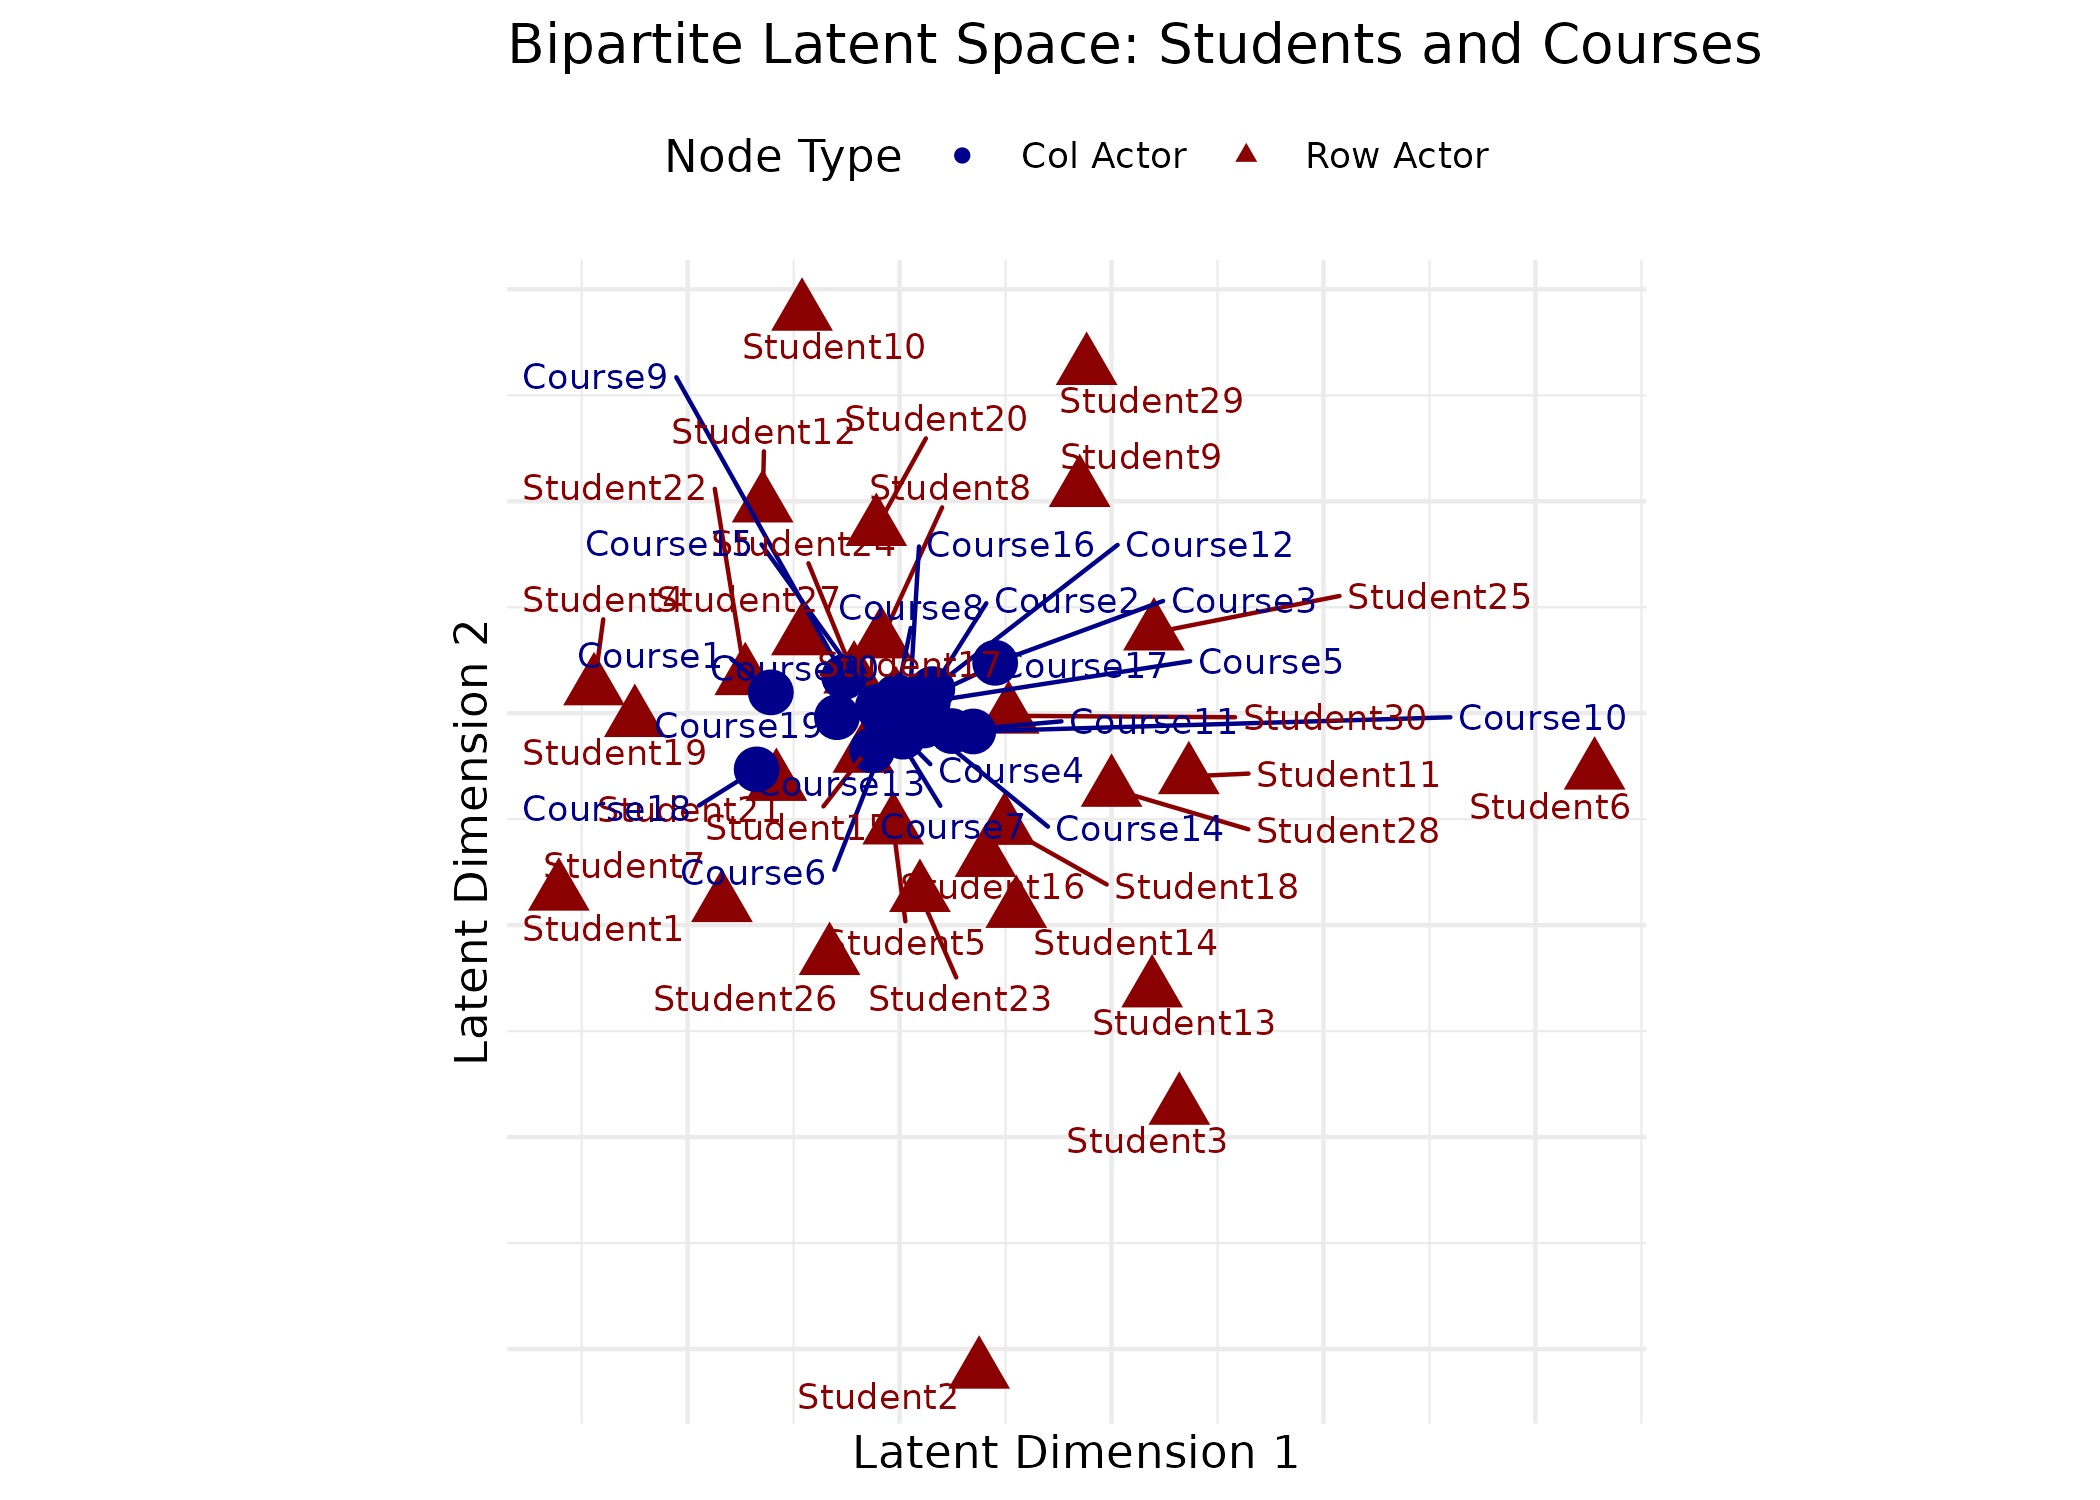
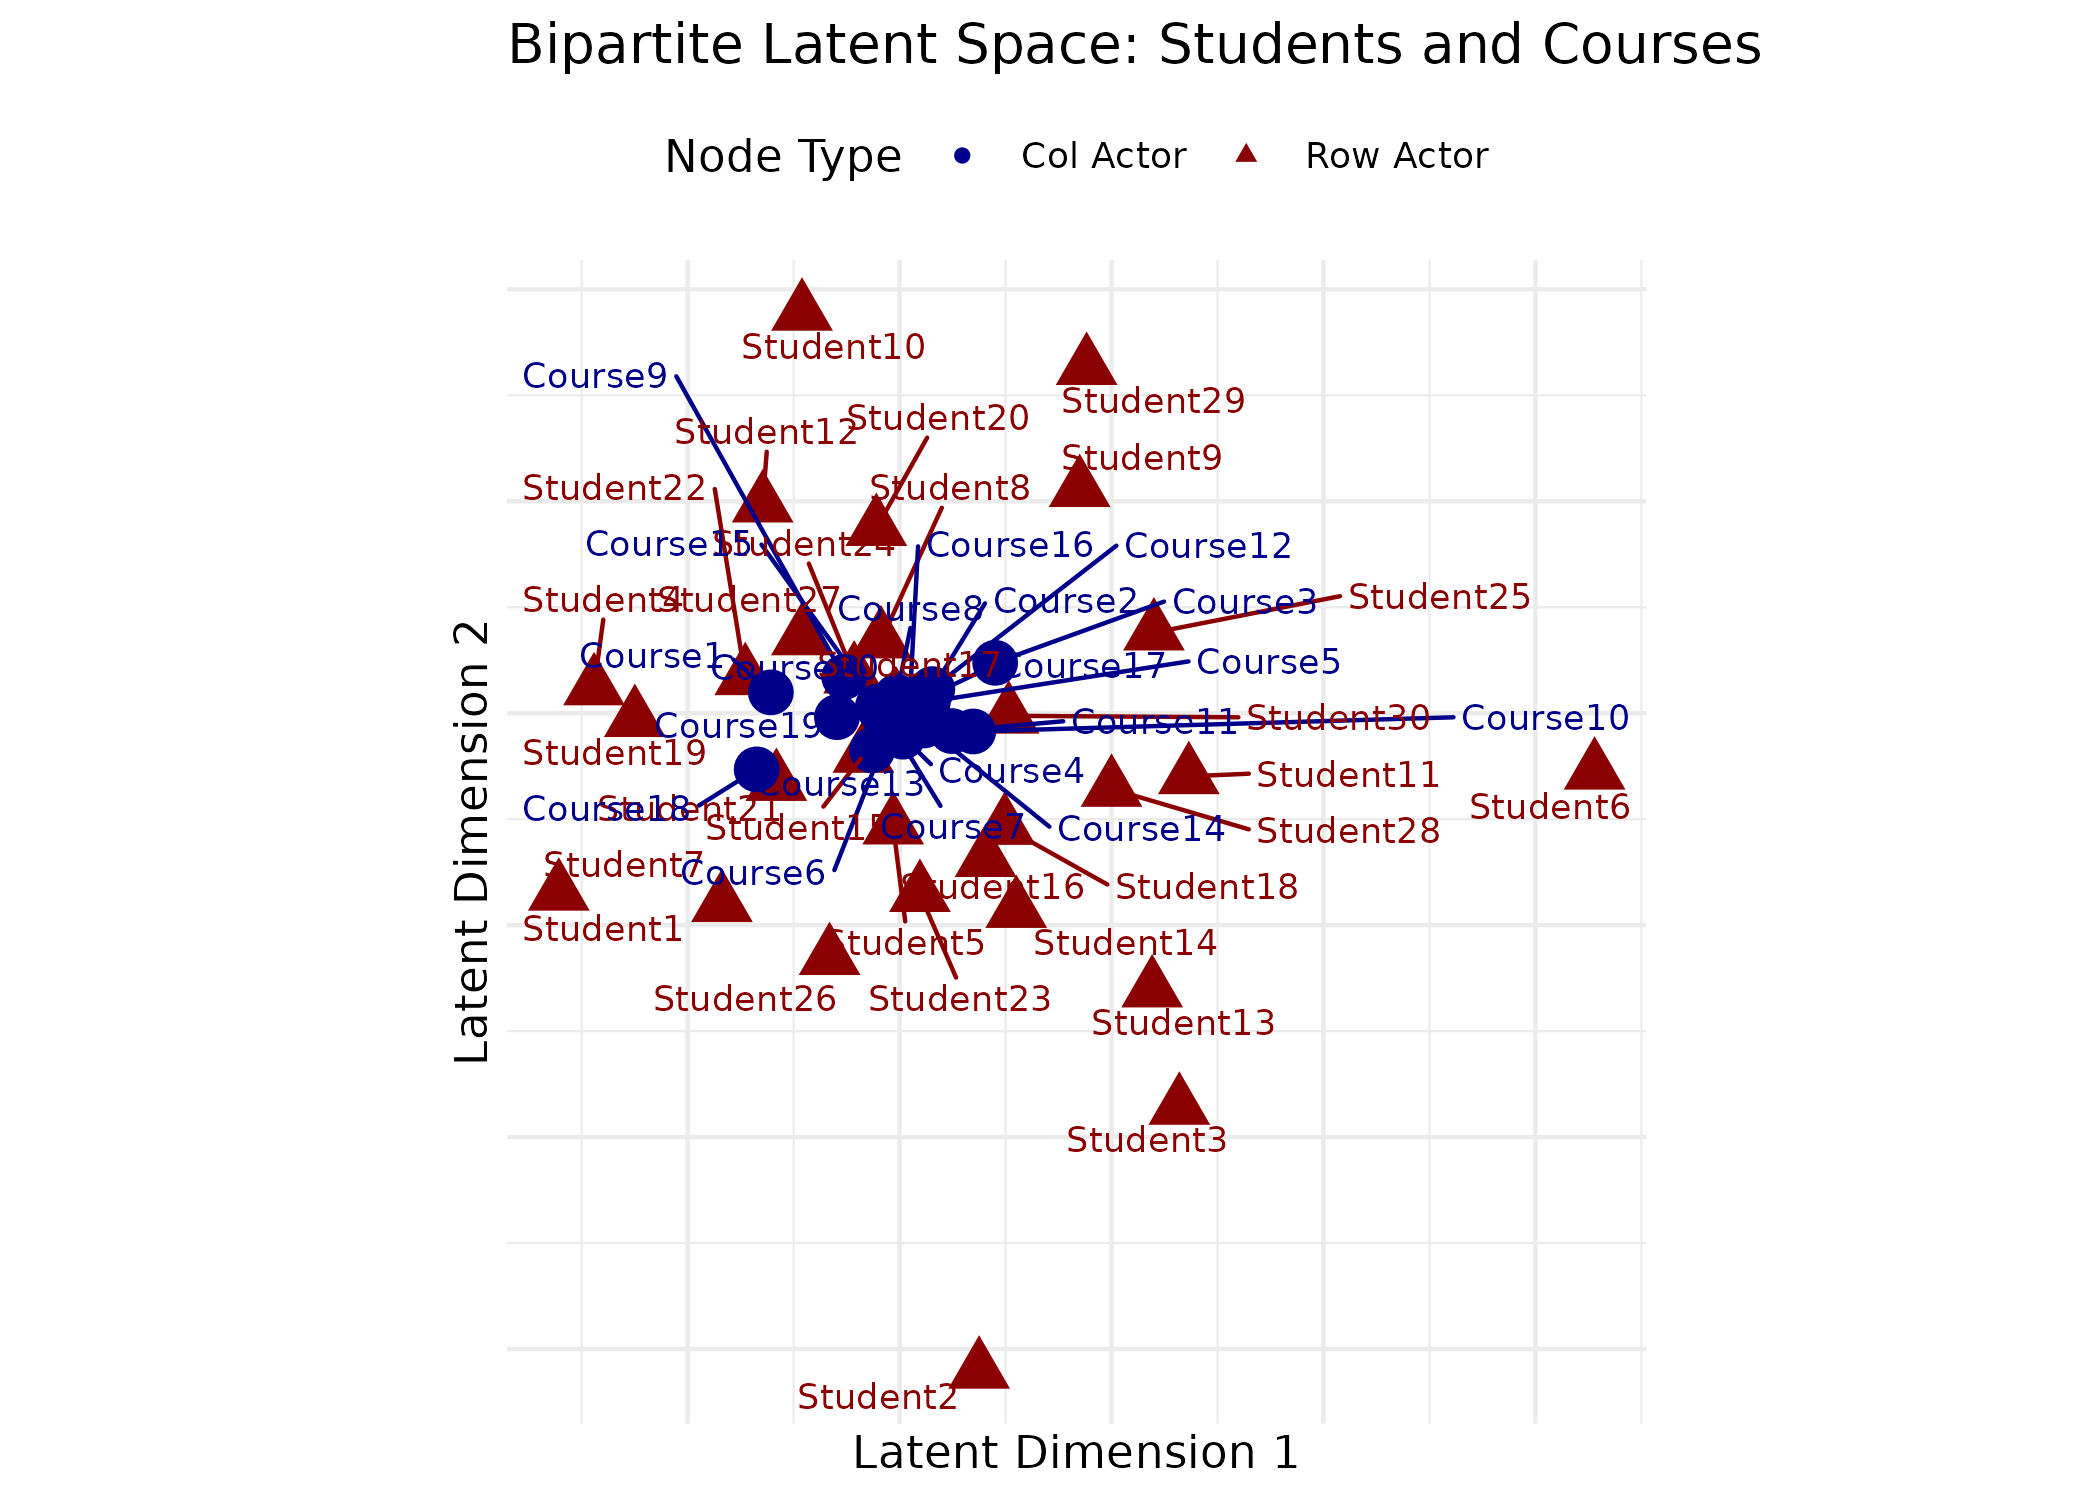
Deploying to gh-pages from @ netify-dev/lame@c4673acba17aab7e982a21378e80ae8f834ad633 🚀

diff --git a/articles/lame-overview.html b/articles/lame-overview.html
@@ -69,7 +69,7 @@
                         <h4 data-toc-skip class="author">Cassy Dorff,
 Shahryar Minhas, and Tosin Salau</h4>
             
-            <h4 data-toc-skip class="date">2026-06-11</h4>
+            <h4 data-toc-skip class="date">2026-06-25</h4>
       
       <small class="dont-index">Source: <a href="https://github.com/netify-dev/lame/blob/main/vignettes/lame-overview.Rmd" class="external-link"><code>vignettes/lame-overview.Rmd</code></a></small>
       <div class="d-none name"><code>lame-overview.Rmd</code></div>
@@ -1521,7 +1521,7 @@ Random-seed + package version is the floor; commit hash +
 <code class="sourceCode R"><span><span class="co"># this vignette's own session record -- copy the pattern verbatim</span></span>
 <span><span class="co"># into your replication archive</span></span>
 <span><span class="fu"><a href="https://rdrr.io/r/utils/sessionInfo.html" class="external-link">sessionInfo</a></span><span class="op">(</span><span class="op">)</span></span>
-<span><span class="co">#&gt; R version 4.6.0 (2026-04-24)</span></span>
+<span><span class="co">#&gt; R version 4.6.1 (2026-06-24)</span></span>
 <span><span class="co">#&gt; Platform: x86_64-pc-linux-gnu</span></span>
 <span><span class="co">#&gt; Running under: Ubuntu 24.04.4 LTS</span></span>
 <span><span class="co">#&gt; </span></span>
@@ -1546,13 +1546,13 @@ Random-seed + package version is the floor; commit hash +
 <span><span class="co">#&gt; </span></span>
 <span><span class="co">#&gt; loaded via a namespace (and not attached):</span></span>
 <span><span class="co">#&gt;  [1] gtable_0.3.6          tensorA_0.36.2.1      bayestestR_0.18.1    </span></span>
-<span><span class="co">#&gt;  [4] xfun_0.58             bslib_0.11.0          insight_1.5.1        </span></span>
+<span><span class="co">#&gt;  [4] xfun_0.59             bslib_0.11.0          insight_1.5.1        </span></span>
 <span><span class="co">#&gt;  [7] ggrepel_0.9.8         lattice_0.22-9        vctrs_0.7.3          </span></span>
-<span><span class="co">#&gt; [10] tools_4.6.0           generics_0.1.4        datawizard_1.3.1     </span></span>
-<span><span class="co">#&gt; [13] parallel_4.6.0        tibble_3.3.1          pkgconfig_2.0.3      </span></span>
+<span><span class="co">#&gt; [10] tools_4.6.1           generics_0.1.4        datawizard_1.3.1     </span></span>
+<span><span class="co">#&gt; [13] parallel_4.6.1        tibble_3.3.1          pkgconfig_2.0.3      </span></span>
 <span><span class="co">#&gt; [16] tinytable_0.16.0      data.table_1.18.4     checkmate_2.3.4      </span></span>
 <span><span class="co">#&gt; [19] RColorBrewer_1.1-3    S7_0.2.2              desc_1.4.3           </span></span>
-<span><span class="co">#&gt; [22] distributional_0.7.0  lifecycle_1.0.5       compiler_4.6.0       </span></span>
+<span><span class="co">#&gt; [22] distributional_0.8.0  lifecycle_1.0.5       compiler_4.6.1       </span></span>
 <span><span class="co">#&gt; [25] farver_2.1.2          stringr_1.6.0         textshaping_1.0.5    </span></span>
 <span><span class="co">#&gt; [28] ggforce_0.5.0         htmltools_0.5.9       sass_0.4.10          </span></span>
 <span><span class="co">#&gt; [31] yaml_2.3.12           pillar_1.11.1         pkgdown_2.2.0        </span></span>
@@ -1561,9 +1561,9 @@ Random-seed + package version is the floor; commit hash +
 <span><span class="co">#&gt; [40] tidyselect_1.2.1      digest_0.6.39         performance_0.17.0   </span></span>
 <span><span class="co">#&gt; [43] stringi_1.8.7         reshape2_1.4.5        purrr_1.2.2          </span></span>
 <span><span class="co">#&gt; [46] labeling_0.4.3        polyclip_1.10-7       fastmap_1.2.0        </span></span>
-<span><span class="co">#&gt; [49] grid_4.6.0            cli_3.6.6             magrittr_2.0.5       </span></span>
+<span><span class="co">#&gt; [49] grid_4.6.1            cli_3.6.6             magrittr_2.0.5       </span></span>
 <span><span class="co">#&gt; [52] patchwork_1.3.2       loo_2.9.0             utf8_1.2.6           </span></span>
-<span><span class="co">#&gt; [55] broom_1.0.13          withr_3.0.2           scales_1.4.0         </span></span>
+<span><span class="co">#&gt; [55] broom_1.0.13          withr_3.0.3           scales_1.4.0         </span></span>
 <span><span class="co">#&gt; [58] backports_1.5.1       rmarkdown_2.31        matrixStats_1.5.0    </span></span>
 <span><span class="co">#&gt; [61] otel_0.2.0            modelsummary_2.6.0    ragg_1.5.2           </span></span>
 <span><span class="co">#&gt; [64] coda_0.19-4.1         evaluate_1.0.5        knitr_1.51           </span></span>

diff --git a/articles/bipartite.html b/articles/bipartite.html
@@ -69,7 +69,7 @@
                         <h4 data-toc-skip class="author">Cassy Dorff,
 Shahryar Minhas, and Tosin Salau</h4>
             
-            <h4 data-toc-skip class="date">2026-06-11</h4>
+            <h4 data-toc-skip class="date">2026-06-25</h4>
       
       <small class="dont-index">Source: <a href="https://github.com/netify-dev/lame/blob/main/vignettes/bipartite.Rmd" class="external-link"><code>vignettes/bipartite.Rmd</code></a></small>
       <div class="d-none name"><code>bipartite.Rmd</code></div>

diff --git a/articles/cross_sec_ame.html b/articles/cross_sec_ame.html
@@ -69,7 +69,7 @@
                         <h4 data-toc-skip class="author">Cassy Dorff,
 Shahryar Minhas, and Tosin Salau</h4>
             
-            <h4 data-toc-skip class="date">2026-06-11</h4>
+            <h4 data-toc-skip class="date">2026-06-25</h4>
       
       <small class="dont-index">Source: <a href="https://github.com/netify-dev/lame/blob/main/vignettes/cross_sec_ame.Rmd" class="external-link"><code>vignettes/cross_sec_ame.Rmd</code></a></small>
       <div class="d-none name"><code>cross_sec_ame.Rmd</code></div>

diff --git a/articles/dynamic_effects.html b/articles/dynamic_effects.html
@@ -69,7 +69,7 @@
                         <h4 data-toc-skip class="author">Cassy Dorff,
 Tosin Salau, Shahryar Minhas</h4>
             
-            <h4 data-toc-skip class="date">2026-06-11</h4>
+            <h4 data-toc-skip class="date">2026-06-25</h4>
       
       <small class="dont-index">Source: <a href="https://github.com/netify-dev/lame/blob/main/vignettes/dynamic_effects.Rmd" class="external-link"><code>vignettes/dynamic_effects.Rmd</code></a></small>
       <div class="d-none name"><code>dynamic_effects.Rmd</code></div>

diff --git a/articles/fast_estimation.html b/articles/fast_estimation.html
@@ -69,7 +69,7 @@
                         <h4 data-toc-skip class="author">Cassy Dorff,
 Shahryar Minhas, and Tosin Salau</h4>
             
-            <h4 data-toc-skip class="date">2026-06-11</h4>
+            <h4 data-toc-skip class="date">2026-06-25</h4>
       
       <small class="dont-index">Source: <a href="https://github.com/netify-dev/lame/blob/main/vignettes/fast_estimation.Rmd" class="external-link"><code>vignettes/fast_estimation.Rmd</code></a></small>
       <div class="d-none name"><code>fast_estimation.Rmd</code></div>

diff --git a/articles/forecasting.html b/articles/forecasting.html
@@ -69,7 +69,7 @@
                         <h4 data-toc-skip class="author">Cassy Dorff,
 Tosin Salau, Shahryar Minhas</h4>
             
-            <h4 data-toc-skip class="date">2026-06-11</h4>
+            <h4 data-toc-skip class="date">2026-06-25</h4>
       
       <small class="dont-index">Source: <a href="https://github.com/netify-dev/lame/blob/main/vignettes/forecasting.Rmd" class="external-link"><code>vignettes/forecasting.Rmd</code></a></small>
       <div class="d-none name"><code>forecasting.Rmd</code></div>

diff --git a/articles/lame.html b/articles/lame.html
@@ -69,7 +69,7 @@
                         <h4 data-toc-skip class="author">Cassy Dorff,
 Shahryar Minhas, and Tosin Salau</h4>
             
-            <h4 data-toc-skip class="date">2026-06-11</h4>
+            <h4 data-toc-skip class="date">2026-06-25</h4>
       
       <small class="dont-index">Source: <a href="https://github.com/netify-dev/lame/blob/main/vignettes/lame.Rmd" class="external-link"><code>vignettes/lame.Rmd</code></a></small>
       <div class="d-none name"><code>lame.Rmd</code></div>

diff --git a/reference/rUV_sym_fc.html b/reference/rUV_sym_fc.html
@@ -115,7 +115,7 @@ diagonal matrix of eigenvalues of <code>U%*%t(V)</code>.</p>
 <span class="r-out co"><span class="r-pr">#&gt;</span>     uLoopIDs &lt;- as.integer(rep(sample(1:n), 4) - 1)</span>
 <span class="r-out co"><span class="r-pr">#&gt;</span>     rUV_sym_fc_cpp(E, U, V, s2, shrink, uLoopIDs)</span>
 <span class="r-out co"><span class="r-pr">#&gt;</span> }</span>
-<span class="r-out co"><span class="r-pr">#&gt;</span> &lt;bytecode: 0x5653d91820c8&gt;</span>
+<span class="r-out co"><span class="r-pr">#&gt;</span> &lt;bytecode: 0x55f9ce1c4118&gt;</span>
 <span class="r-out co"><span class="r-pr">#&gt;</span> &lt;environment: namespace:lame&gt;</span>
 <span class="r-in"><span></span></span>
 </code></pre></div>